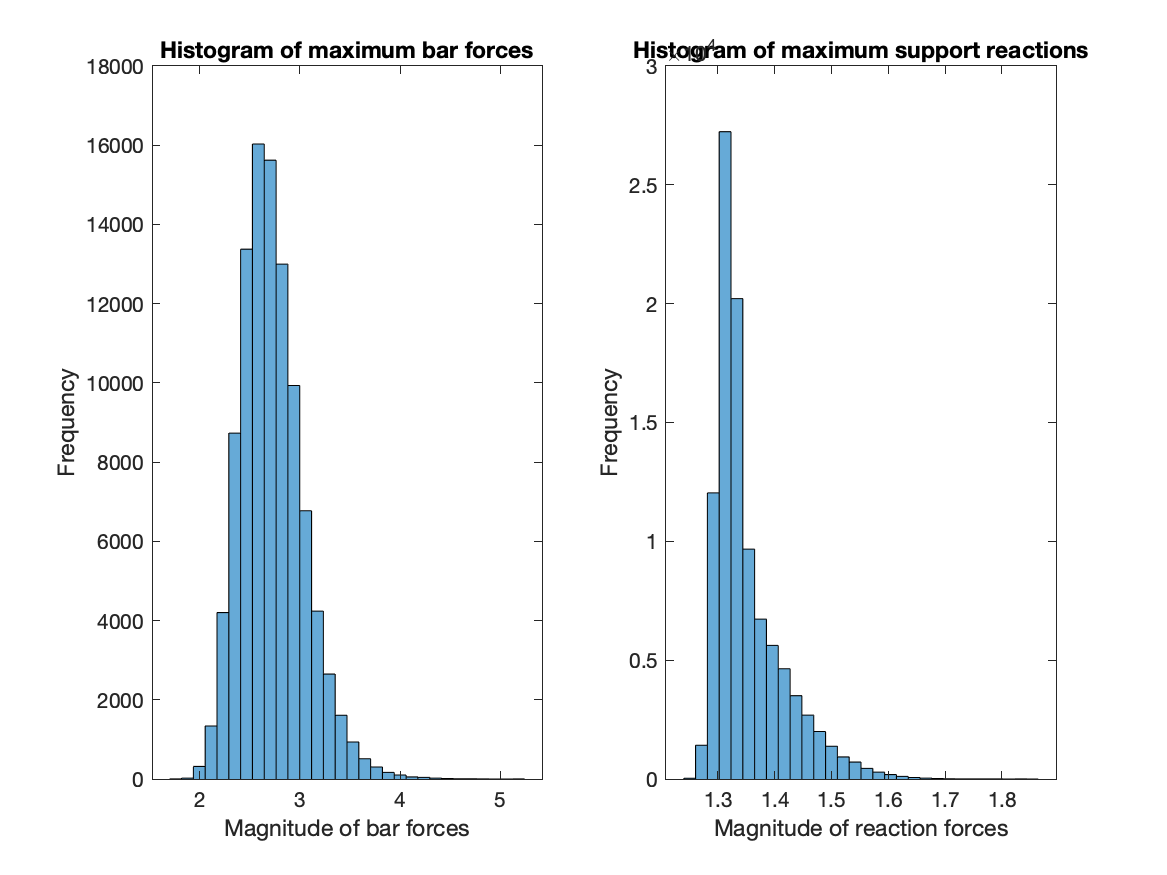
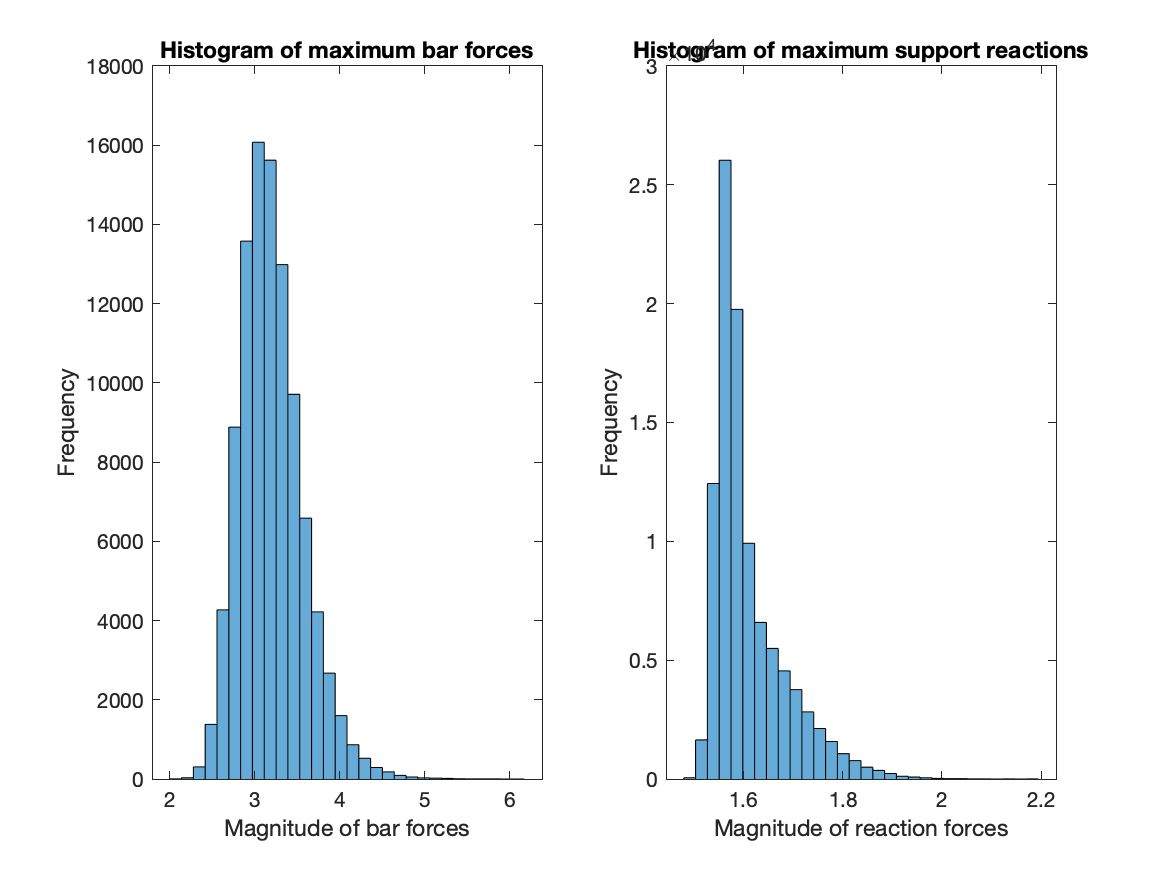
Updated Weight function

diff --git a/Lab2/Truss3d/Design2/addweight.m b/Lab2/Truss3d/Design2/addweight.m
@@ -21,6 +21,7 @@ function [barweight_m, reacjoints_w]=addweight(connectivity,joints,loadjoints,lo
 %           we have and if at the location of the bar 1 is returned that
 %           mean there's a sleve there
 %           - sleveweight: in N.
+%           - magnetsmass: the mass of the balls that acted as joints
 %      
 %----------------------------------------------------------------------
 % OUTPUTS: In order of output (total of 8)
@@ -70,8 +71,8 @@ end
 
 for k = 1:r
     
-barweight_m(connectivity(k,1),3) = barweight_m(connectivity(k,1),3) - barweight(k)/2;
-barweight_m(connectivity(k,2),3) = barweight_m(connectivity(k,2),3) - barweight(k)/2;
+barweight_m(connectivity(k,1),3) = barweight_m(connectivity(k,1),3) - barweight(k)/2 ;
+barweight_m(connectivity(k,2),3) = barweight_m(connectivity(k,2),3) - barweight(k)/2 ;
 
     
 end
@@ -87,9 +88,15 @@ for i = 1:length(sleve)
     end
 end
 
-% add weight of magnets
+% add weight of magnet balls that are acting as joints
+
+%add the weight of the small magnets that are used to connect two magnet
+%balls together, they are one at the end of each bar, thus it'll be added
+%twice to each joint. This turns out to be 0.016677 N ( each small magnets
+%has a mass of 0.0017 kg, and they'll be constant thus they're hard coded.
+
 magweight = (magnetsmass/1000)*9.81;
-barweight_m(:,3) = barweight_m(:,3) - magweight;
+barweight_m(:,3) = barweight_m(:,3) - magweight - (0.016677*2) ;
 
 %restablish load joints, where each row will represent the number of joint
 %or joint id

diff --git a/Lab2/Truss3d/Design2/TrussInNOutDesign2.m b/Lab2/Truss3d/Design2/TrussInNOutDesign2.m
@@ -4,7 +4,7 @@ close all;
 
 inputfile = 'Design2.inp';
 outputfile = 'Design2Out.txt';
-AssumedFail = 1.5e-4 ;
+AssumedFail = 2.0e-4 ;
 LinDensity = 31.13 / 1000 ; % kg / m
 sleveweight = (5.35/1000)*9.81;
 magnetsmass = 1.7;
@@ -63,7 +63,7 @@ numsamples = 1e5;   % number of samples
 
 ProbFaliure = MonteCarls(inputfile);
 
-Fdsr = icdf('normal',AssumedFail,jstrmean,jstrcov);
+Fdsr = icdf('normal',AssumedFail,jstrmean,0.4);
 
 % any given time your max tensile/compressive strength shouldn't exceed the
 % 
